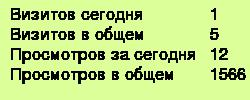
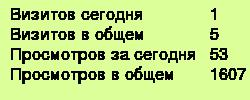
yandex metricks

Changed region(s): [[0.868, 0.63, 1.0, 0.81], [0.84, 0.48, 0.924, 0.63]]

diff --git a/routes/yastatistic.js b/routes/yastatistic.js
@@ -1,0 +1,82 @@
+var express = require('express');
+var app = require('../app.js');
+var request = require('request');
+var fs = require("fs");
+var handlebars = require('handlebars');
+var layouts = require('handlebars-layouts');
+var router = express.Router();
+
+function parseYandexAns(ans) {
+    var dimensions = [];
+    for (key in ans['query']['dimensions']) {
+        dimensions.append();
+    }
+}
+
+router.get('/', function(req, res, next) {
+    var ans;
+    request('https://api-metrika.yandex.ru/stat/v1/data?ids=34965660&metrics=ym:s:visits,ym:s:pageDepth,ym:s:avgVisitDurationSeconds&dimensions=ym:s:ageInterval&oauth_token=d6916eb6de304b8191c919cf82304af2', function (error, response, body) {
+        if (!error && response.statusCode == 200) {
+            ans = JSON.parse(body);
+            //console.log(ans);
+            //console.log(ans['query']['dimensions']);
+            //console.log(ans['query']['metrics']);
+            //console.log(ans['data']);
+            var context = {};
+            context['age'] = [];
+            //context['age'].append({'met': dd});
+            for (var d in ans['data']) {
+                var dd = ans['data'][d]['dimensions'][0]['name'];
+                //console.log(dd);
+                context['age'].push({'age': dd, 'metrics': []});
+            }
+            //console.log(context);
+            for (var i in context['age']) {
+                for (var m in ans['query']['metrics']) {
+                    var mm = ans['query']['metrics'][m];
+                    console.log(mm);
+                    context['age'][i]['metrics'].push({'name': mm.replace('ym:s:',''), 'value': ans['data'][i]['metrics'][m]});
+                }
+            }
+            request('https://api-metrika.yandex.ru/stat/v1/data?ids=34965660&metrics=ym:s:visits,ym:s:pageviews&dimensions=ym:s:windowClientWidth,ym:s:windowClientHeight&oauth_token=d6916eb6de304b8191c919cf82304af2', function (error, response, body) {
+                if (!error && response.statusCode == 200) {
+                    ans = JSON.parse(body);
+                    context['resolution'] = [];
+                    for (var d in ans['data']) {
+                        var ddw = ans['data'][d]['dimensions'][0]['name'];
+                        var ddh = ans['data'][d]['dimensions'][1]['name'];
+                        context['resolution'].push({'width': ddw, 'height': ddh, 'metrics': []});
+                    }
+                    for (var i in context['resolution']) {
+                        for (var m in ans['query']['metrics']) {
+                            var mm = ans['query']['metrics'][m];
+                            context['resolution'][i]['metrics'].push({'name': mm.replace('ym:s:',''), 'value': ans['data'][i]['metrics'][m]});
+                        }
+                    }
+                    request('https://api-metrika.yandex.ru/stat/v1/data?ids=34965660&metrics=ym:s:visits,ym:s:pageviews&dimensions=ym:s:startURLPathFull&oauth_token=d6916eb6de304b8191c919cf82304af2', function (error, response, body) {
+                        if (!error && response.statusCode == 200) {
+                            ans = JSON.parse(body);
+                            console.log(ans);
+                            context['path'] = [];
+                            for (var d in ans['data']) {
+                                var path = ans['data'][d]['dimensions'][0]['name'];
+                                context['path'].push({'path': path, 'metrics': []});
+                            }
+                            for (var i in context['path']) {
+                                for (var m in ans['query']['metrics']) {
+                                    var mm = ans['query']['metrics'][m];
+                                    context['path'][i]['metrics'].push({'name': mm.replace('ym:s:',''), 'value': ans['data'][i]['metrics'][m]});
+                                }
+                            }
+                            var template = handlebars.compile(fs.readFileSync('./views/statistic.html', 'utf8'));
+                            var output = template(context);
+                            return res.send(output);
+                        }
+                    });
+                }
+            });
+        }
+    });
+});
+
+module.exports = router;

diff --git a/views/statistic.html b/views/statistic.html
@@ -1,0 +1,118 @@
+{{#extend "layout"}}
+
+{{#content "head" mode="append"}}
+{{/content}}
+
+{{#content "body"}}
+<div class="ui inverted vertical masthead center aligned segment">
+    <div class="ui container">
+        <div class="ui stackable inverted menu">
+            <a data-scroll href="/" class="item">Главная</a>
+            <a data-scroll href="/#whatIDo" class="item">Чем я занимаюсь</a>
+            <a data-scroll href="/#about" class="item">Обо мне</a>
+            <a data-scroll href="/#links" class="item">Ссылки</a>
+            <a data-scroll href="/gallery" class="item">Галлерея</a>
+            <a data-scroll href="/#works" class="item">Работы</a>
+            <a data-scroll href="/#contact" class="item">Связаться со мной</a>
+            <a data-scroll href="/yastatistic" class="item">Статистика</a>
+            {{#if user}}
+            <div class="right item">
+                <a class="ui inverted button" href="/login">Профиль</a>
+                <a class="ui inverted button" href="/logout">Выход</a>
+            </div>
+            {{else}}
+            <div class="right item">
+                <a class="ui inverted button" href="/login">Вход</a>
+            </div>
+            {{/if}}
+        </div>
+    </div>
+</div>
+<div class="ui center aligned container">
+    <div class="ui raised center aligned segment">
+        <h4 class="ui horizontal divider header">
+            Статистика по возрасту за последние 7 дней
+        </h4>
+        {{#each age}}
+            <div class="ui small statistics">
+                <div class="statistic">
+                    <div class="value">
+                        {{age}}
+                    </div>
+                    <div class="label">
+                        Возраст
+                    </div>
+                </div>
+                {{#each metrics}}
+                    <div class="statistic">
+                    <div class="value">
+                        {{value}}
+                    </div>
+                    <div class="label">
+                        {{name}}
+                    </div>
+                    </div>
+                {{/each}}
+            </div>
+        {{/each}}
+        <h4 class="ui horizontal divider header">
+            Статистика по экранам за последние 7 дней
+        </h4>
+        {{#each resolution}}
+        <div class="ui small statistics">
+            <div class="statistic">
+                <div class="value">
+                    {{width}} x {{height}}
+                </div>
+                <div class="label">
+                    Разрешение
+                </div>
+            </div>
+            {{#each metrics}}
+            <div class="statistic">
+                <div class="value">
+                    {{value}}
+                </div>
+                <div class="label">
+                    {{name}}
+                </div>
+            </div>
+            {{/each}}
+        </div>
+        {{/each}}
+        <h4 class="ui horizontal divider header">
+            Статистика по страницам за последние 7 дней
+        </h4>
+        {{#each path}}
+        <div class="ui small statistics">
+            <div class="statistic">
+                <div class="value">
+                    {{path}}
+                </div>
+                <div class="label">
+                    Страница
+                </div>
+            </div>
+            {{#each metrics}}
+            <div class="statistic">
+                <div class="value">
+                    {{value}}
+                </div>
+                <div class="label">
+                    {{name}}
+                </div>
+            </div>
+            {{/each}}
+        </div>
+        {{/each}}
+        <h5 class="ui horizontal divider header">
+            P.S Статистика из Яндекс метрики
+        </h5>
+    </div>
+</div>
+{{/content}}
+
+{{#content "foot" mode="prepend"}}
+{{/content}}
+
+{{/extend}}

diff --git a/app.js b/app.js
@@ -25,6 +25,7 @@ var counter = require('./routes/counter');
 var autoSpam = require('./routes/auto_spam');
 var hitHandler = require('./routes/hit_handler');
 var statisctic = require('./routes/statistic');
+var yastatistic = require('./routes/yastatistic');
 
 var app = express();
 var server = require('http').Server(app);
@@ -69,6 +70,7 @@ passport.deserializeUser(User.deserializeUser());
 
 app.use('/', routes);
 app.use('/counter', counter);
+app.use('/yastatistic', yastatistic);
 
 // Socket.io
 io.use(passportSocketIo.authorize({

diff --git a/views/gallery.html b/views/gallery.html
@@ -13,6 +13,7 @@
             <a data-scroll href="/gallery" class="item">Галлерея</a>
             <a data-scroll href="/#works" class="item">Работы</a>
             <a data-scroll href="/#contact" class="item">Связаться со мной</a>
+            <a data-scroll href="/yastatistic" class="item">Статистика</a>
             {{#if user}}
             <div class="right item">
                 <a class="ui inverted button" href="/login">Профиль</a>

diff --git a/views/portfolio.html b/views/portfolio.html
@@ -13,6 +13,7 @@
             <a data-scroll href="/gallery" class="item">Галлерея</a>
             <a data-scroll href="#works" class="item">Работы</a>
             <a data-scroll href="#contact" class="item">Связаться со мной</a>
+            <a data-scroll href="/yastatistic" class="item">Статистика</a>
             {{#if user}}
             <div class="right item">
                 <a class="ui inverted button" href="/login">Профиль</a>

diff --git a/routes/statistic.js b/routes/statistic.js
@@ -2,7 +2,7 @@ var express = require('express');
 var app = require('../app.js');
 var router = express.Router();
 var pg = require('pg');
-var conString = process.env.DATABASE_URL;;
+var conString = process.env.DATABASE_URL;
 
 // Считаем различную статистику при загрузке страницы
 router.use(function(req, res, next) {
